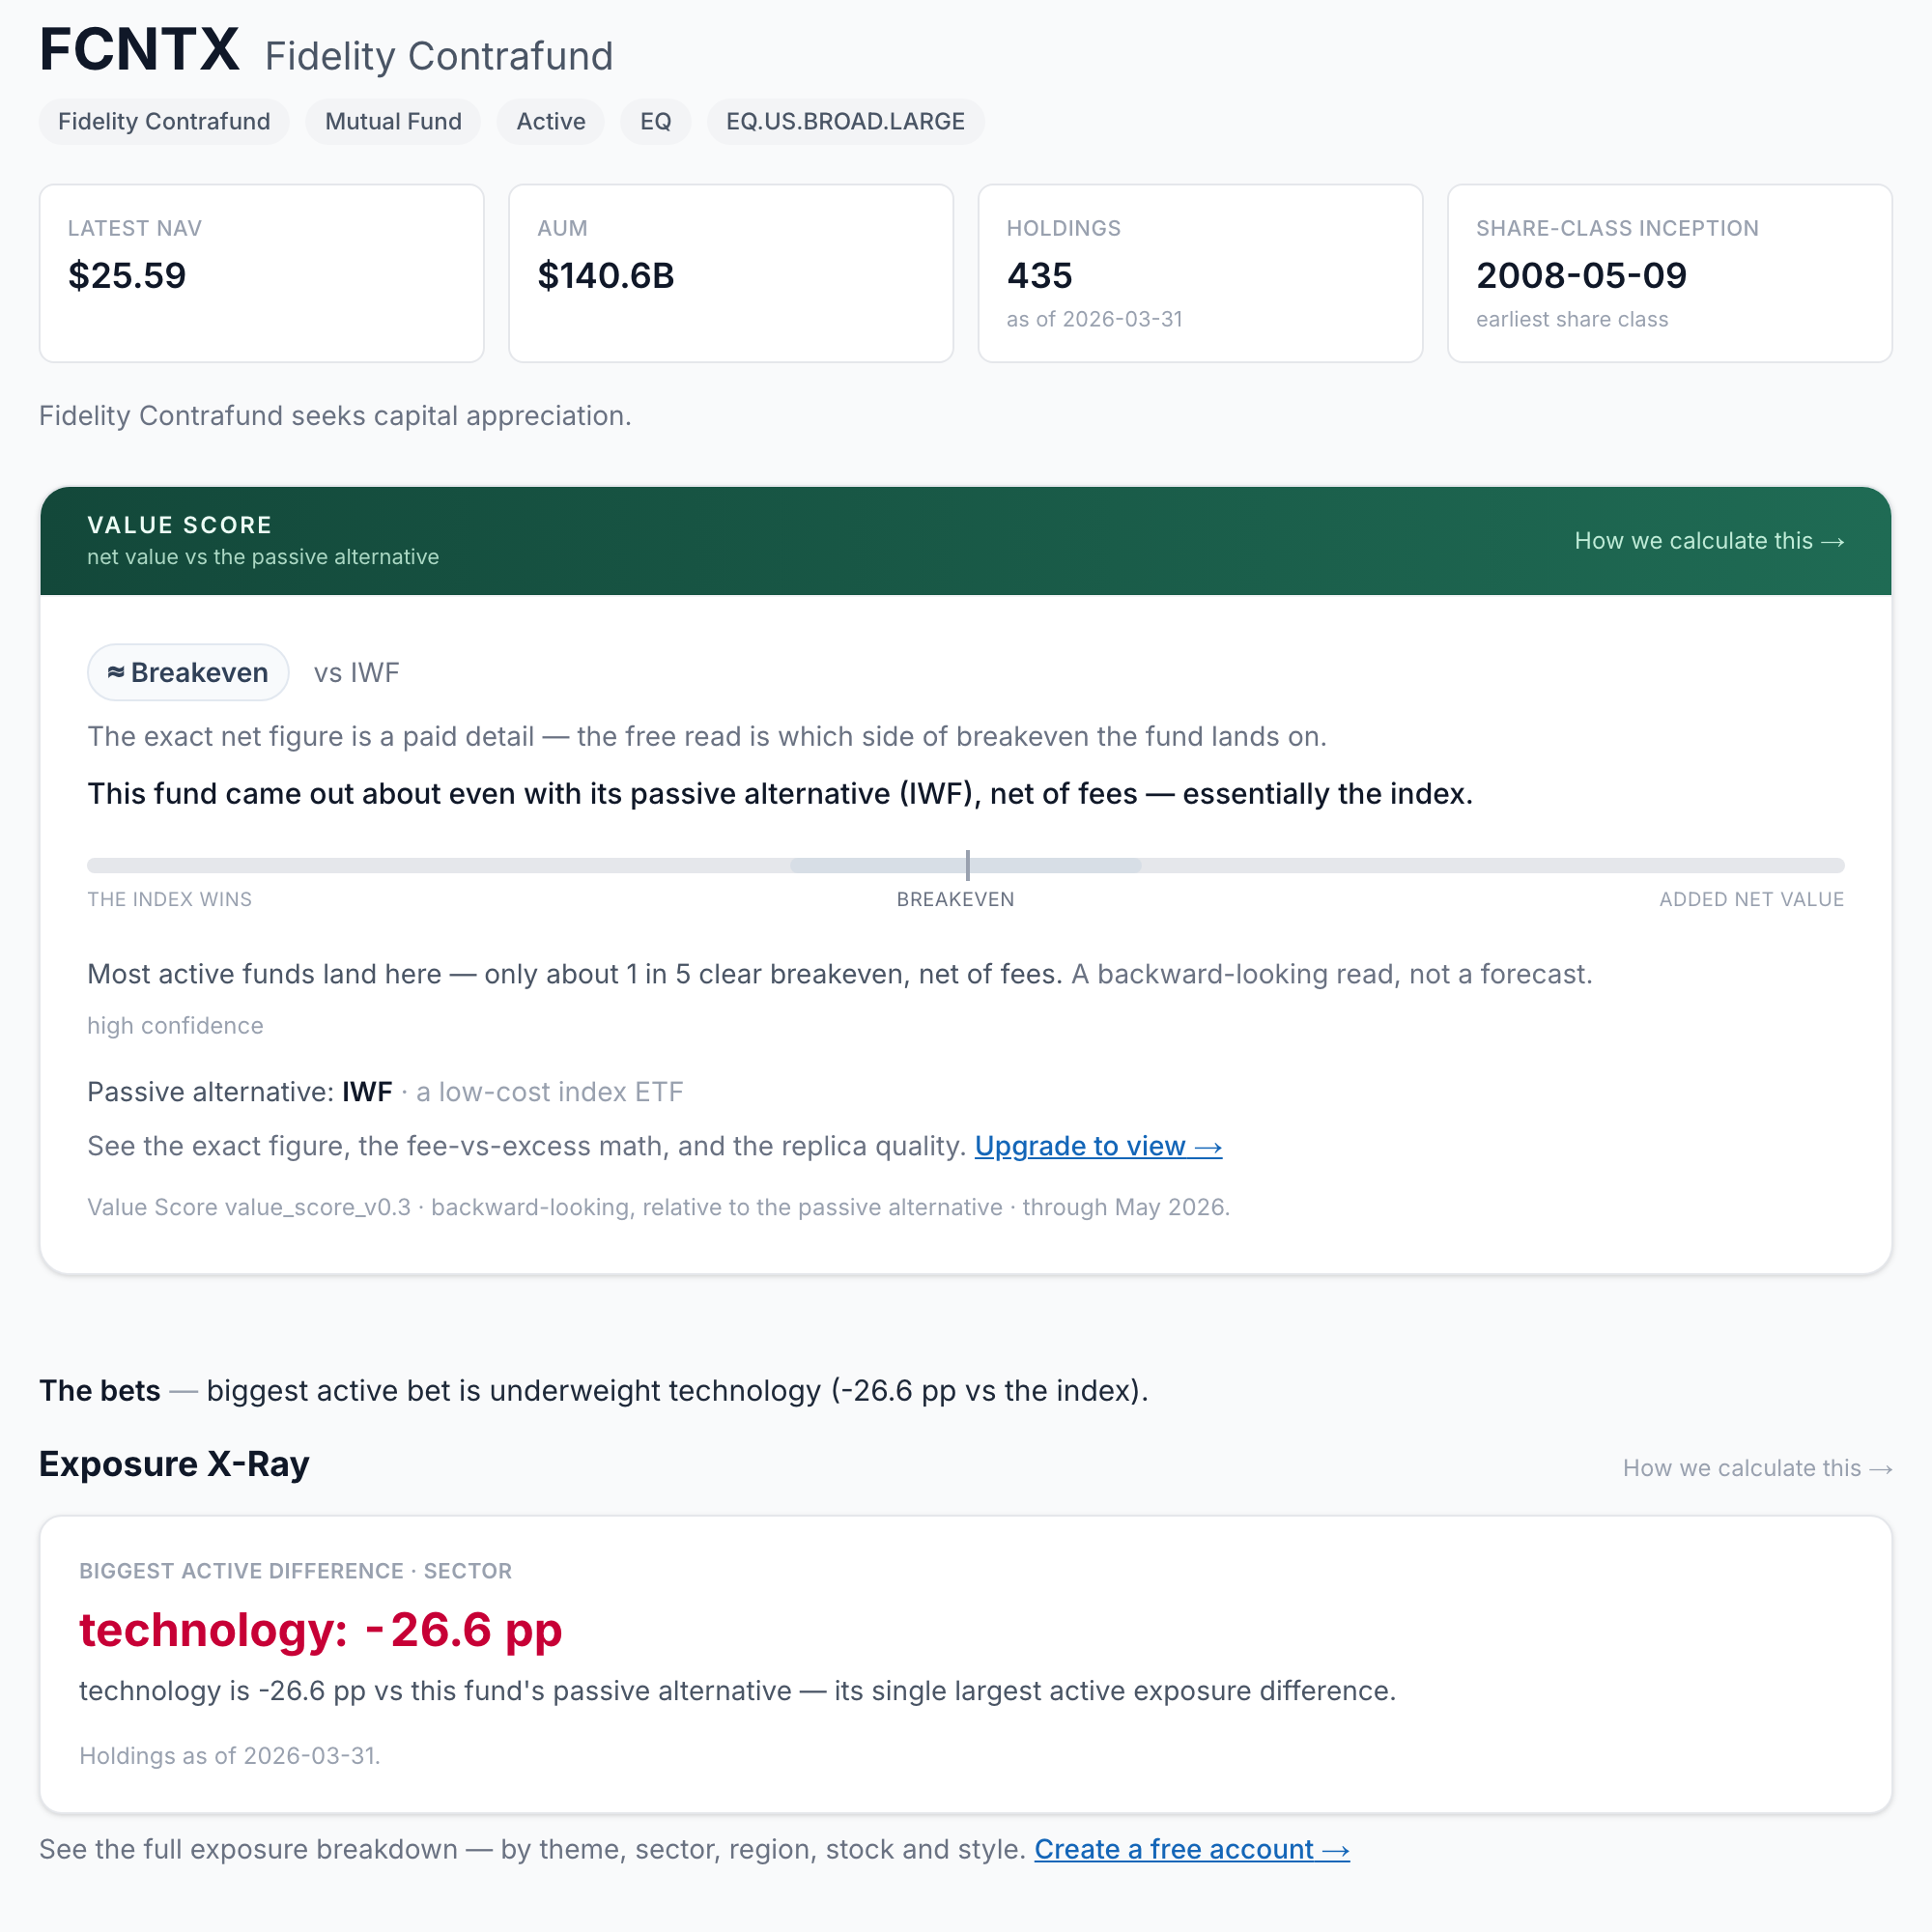
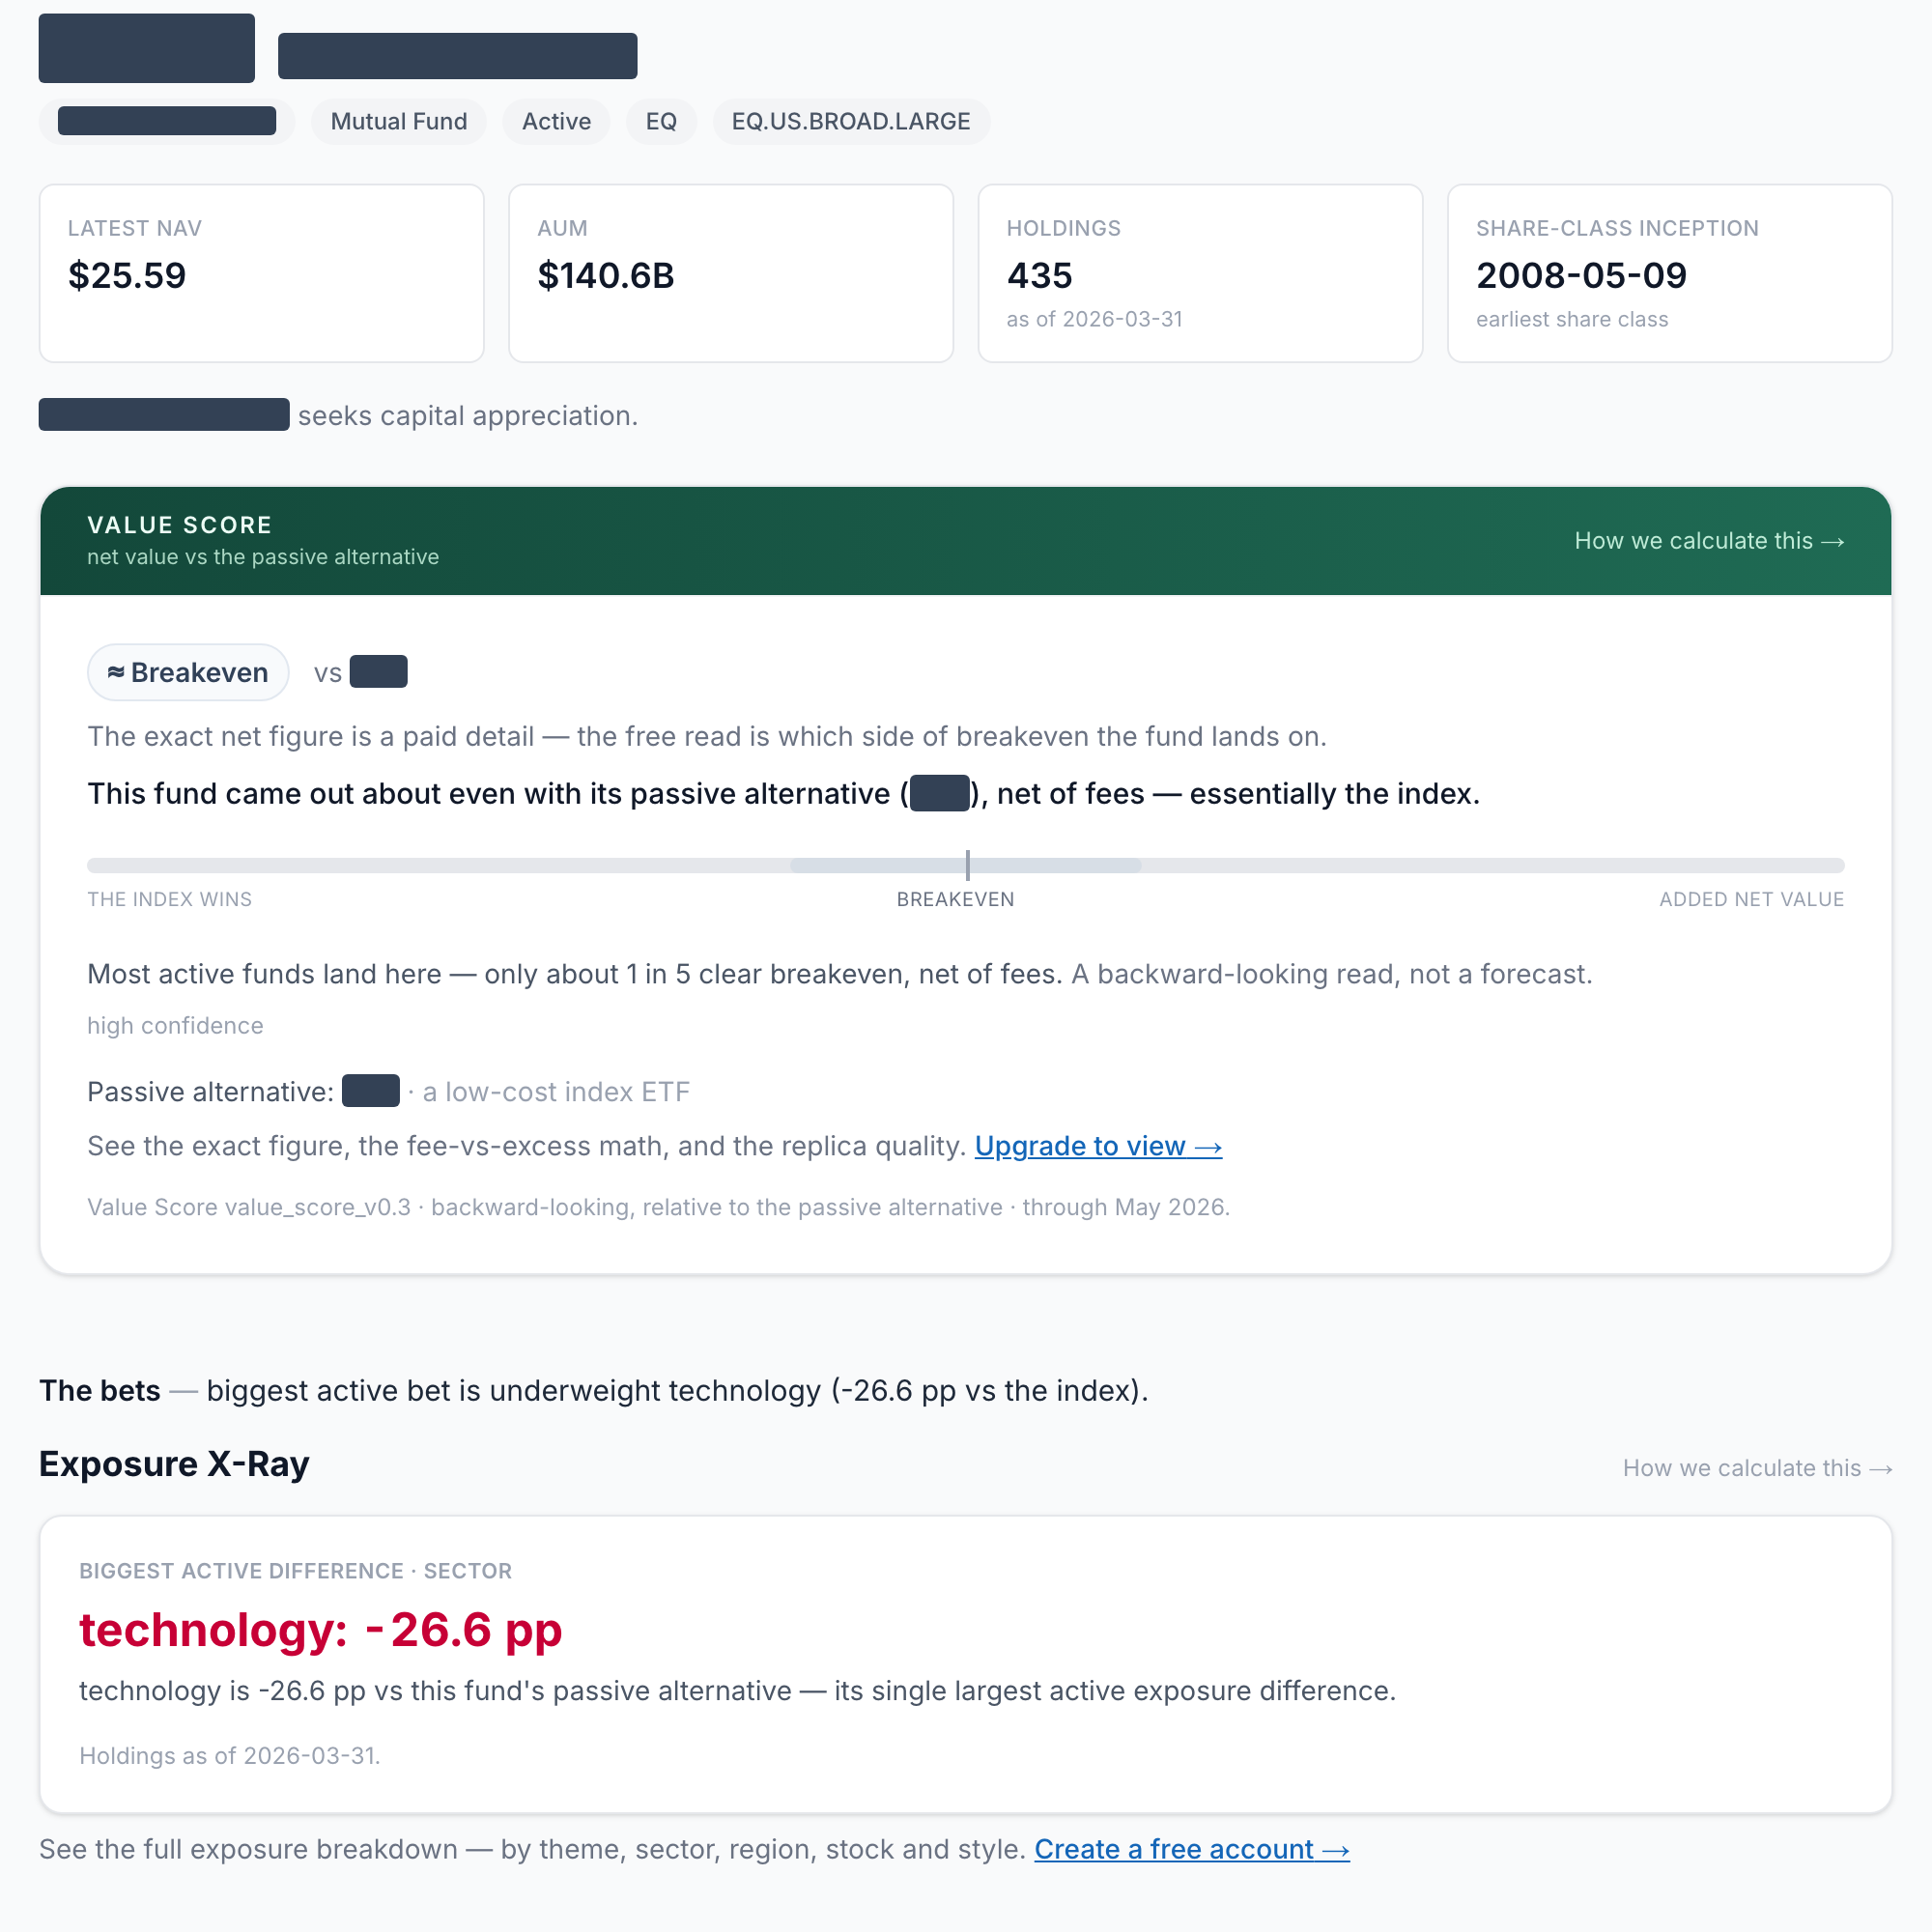
chore: anonymize the fund-profile screenshot on the homepage
Owner decision (2026-07-15): redact the named fund rather than keep or swap it.
Re-captured /funds/FCNTX with the ticker, fund name and named passive
alternative masked (width-accurate dark bars); kept AUM, the approximately-
breakeven verdict, and the technology-underweight exposure detail. Alt text
de-named to match. The X-Ray screenshot's IWF/VEU blend legs are left as-is —
those are neutral index-ETF building blocks, not a characterization of a named
active fund.

Claude-Session: https://claude.ai/code/session_01HM5XhXNPtMnEGBx6TC4Ay6

diff --git a/src/app/page.tsx b/src/app/page.tsx
@@ -277,7 +277,7 @@ export default function HomePage() {
           <div className="grid gap-14 lg:grid-cols-[minmax(0,1fr)_minmax(0,0.9fr)] lg:items-center lg:gap-20">
             <Shot
               src={fundShot}
-              alt="FundScore profile for FCNTX, Fidelity Contrafund: a Value Score of approximately breakeven against IWF, and an Exposure X-Ray showing technology 26.6 percentage points underweight its passive alternative."
+              alt="A FundScore fund profile (the fund name is redacted): a Value Score of about breakeven against the fund's closest passive alternative — it came out roughly even, net of fees — with an Exposure X-Ray showing it 26.6 percentage points underweight technology versus that alternative."
               caption="A real FundScore profile. The Value Score is backward-looking and relative to that fund's own passive alternative — never a forecast, and never a recommendation."
             />
 